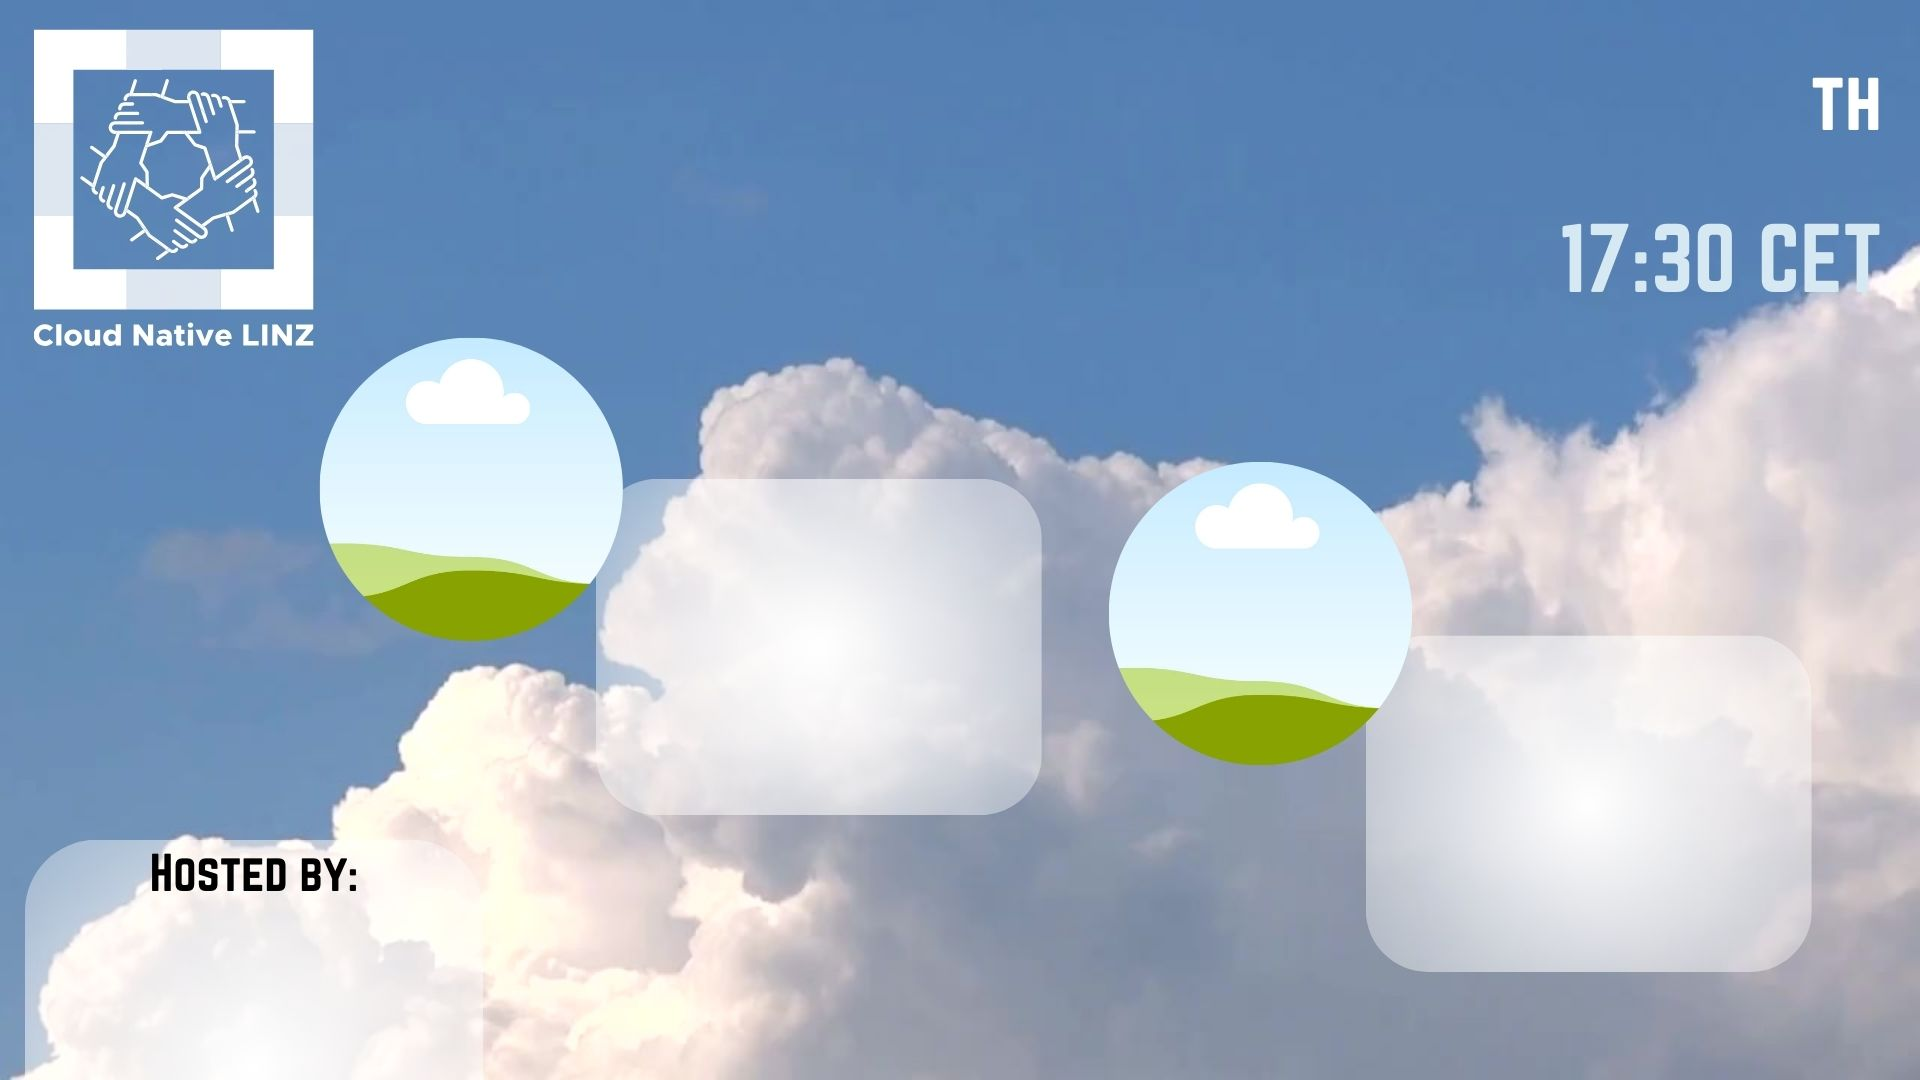
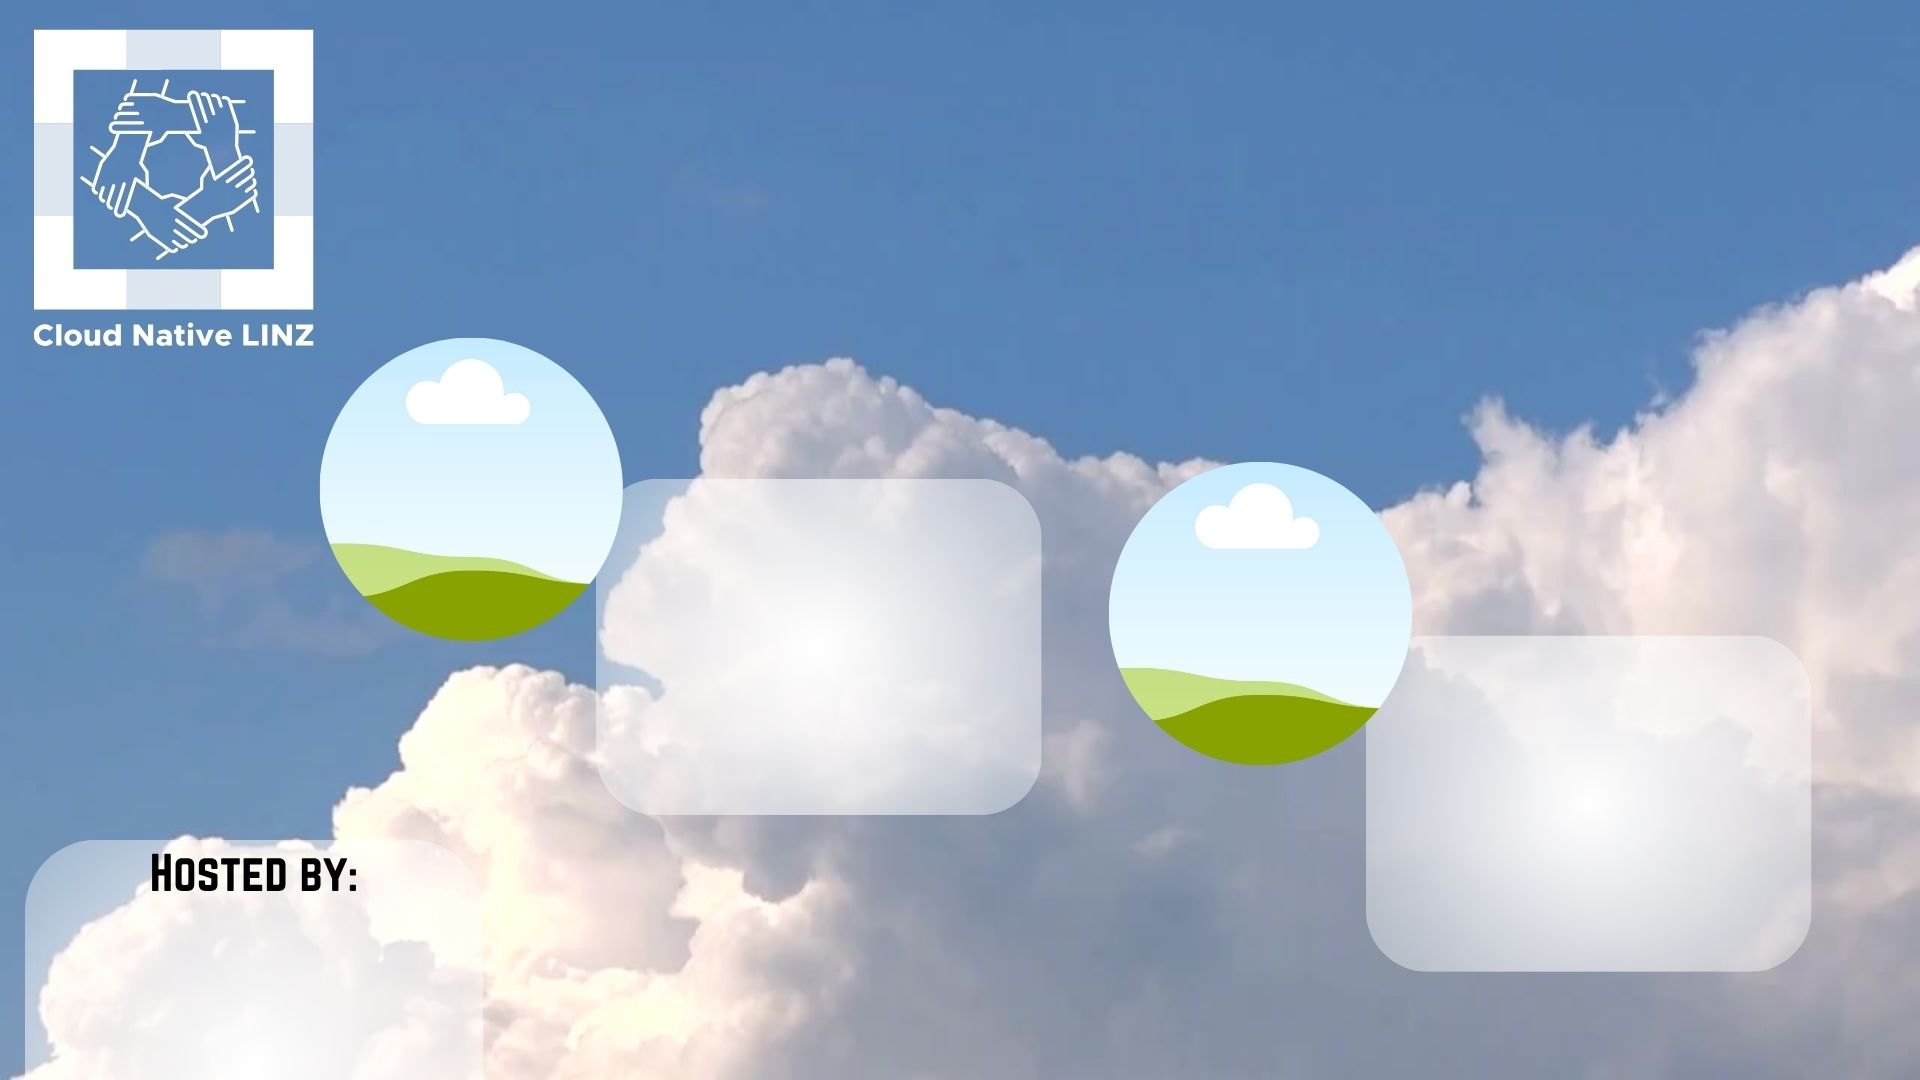
working version

Changed region(s): [[0.8125, 0.1833, 1.0, 0.275], [0.9375, 0.0611, 1.0, 0.1222]]

diff --git a/README.md b/README.md
@@ -46,7 +46,7 @@ To generate an image, run the application with the necessary command-line argume
 
 ### Example Command
 ```
-go run cmd/main.go --background assets/backgrounds/cncf.jpg --template assets/templates/template.json --output file.jpg
+ go run cmd/main.go --template assets/templates/template.json --output file.jpg --id 15
 ```
 
 ## Contributing
